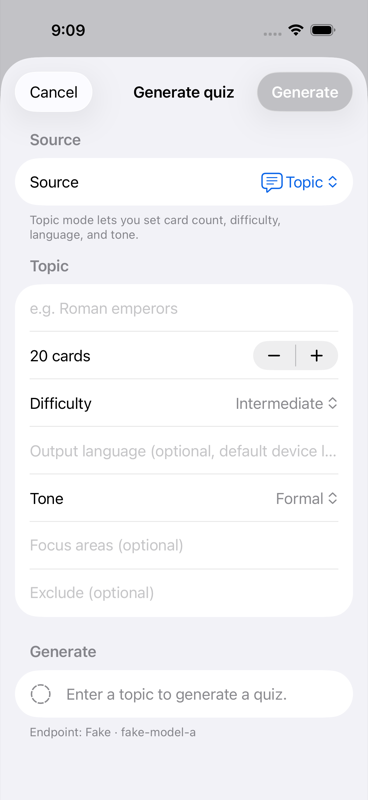
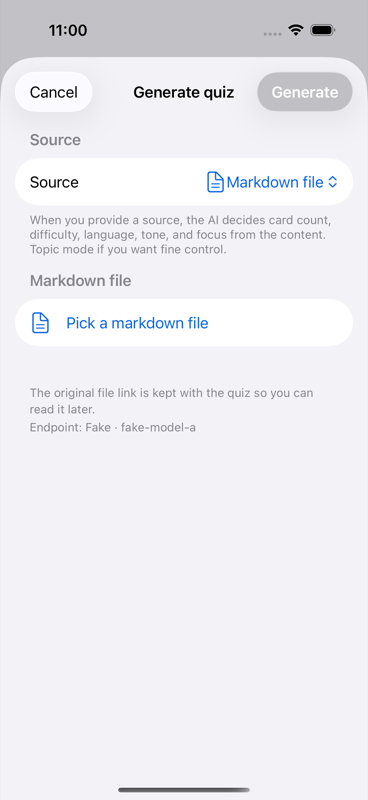
UI tweaks: onboarding, iPad search beside sort, simpler generate form
Owner feedback on the CR-011 round (CR-012):
- Onboarding: checkmark on the hero card; page 2 shows only the four
  sources; page 3 uses the sparkles badge from page 2; one-line keys note.
- iPad library: search moves from the toolbar into the header row beside
  sort; the add button stays top right. iPhone keeps the bottom search bar.
- Generate sheet: drop the bottom section header and readiness line; keep
  the original-kept note and endpoint. "Pick a markdown file".
- UI tests find the inline iPad search field.

diff --git a/AIQuiz/App/OnboardingView.swift b/AIQuiz/App/OnboardingView.swift
@@ -142,7 +142,7 @@ private struct GeneratePage: View {
                             .background(.background.secondary, in: RoundedRectangle(cornerRadius: Theme.tileRadius))
                         } else {
                             HStack(spacing: 10) {
-                                AccentIcon(systemName: source.icon, size: 32)
+                                AccentIcon(systemName: source.icon, size: 40)
                                 Text(source.label)
                                     .font(.subheadline.weight(.semibold))
                                     .lineLimit(2)
@@ -150,18 +150,11 @@ private struct GeneratePage: View {
                                 Spacer(minLength: 0)
                             }
                             .padding(.horizontal, 10)
-                            .frame(maxWidth: .infinity, minHeight: 52)
+                            .frame(maxWidth: .infinity, minHeight: 72)
                             .background(.background.secondary, in: RoundedRectangle(cornerRadius: Theme.tileRadius))
                         }
                     }
                 }
-                Label("AI writes the cards", systemImage: "arrow.down")
-                    .font(.footnote.weight(.semibold))
-                    .foregroundStyle(.secondary)
-                AdaptiveTiles(sizeClass: sizeClass, items: [
-                    FeatureTileModel(icon: "rectangle.stack.fill", title: "A deck of flashcards", text: "Ready for all three study modes."),
-                    FeatureTileModel(icon: "book.fill", title: "The original, kept", text: "Read it again from the quiz any time.")
-                ])
             }
         }
     }
@@ -173,7 +166,7 @@ private struct ProvidersPage: View {
     var body: some View {
         OnboardingPage(index: 2, title: "Bring your own AI",
                        subtitle: "Pick who writes and grades your quizzes. Requests go straight from this device to them.") {
-            AccentIcon(systemName: "cpu.fill", size: 120)
+            SparklesBadge(size: 120)
         } content: {
             VStack(spacing: 14) {
                 LazyVGrid(columns: Array(repeating: GridItem(.flexible(), spacing: 12), count: sizeClass == .regular ? 4 : 2), spacing: 12) {
@@ -181,14 +174,9 @@ private struct ProvidersPage: View {
                         ProviderMark(provider: provider, large: sizeClass == .regular)
                     }
                 }
-                HStack(alignment: .top, spacing: 12) {
+                HStack(spacing: 12) {
                     AccentIcon(systemName: "lock.shield.fill", size: sizeClass == .regular ? 48 : 36)
-                    VStack(alignment: .leading, spacing: 2) {
-                        Text("Your keys stay on this device").font(sizeClass == .regular ? .title3.weight(.semibold) : .headline)
-                        Text("API keys live in the Keychain. Add an endpoint from Settings whenever you're ready.")
-                            .font(sizeClass == .regular ? .body : .subheadline)
-                            .foregroundStyle(.secondary)
-                    }
+                    Text("Your keys stay on this device").font(sizeClass == .regular ? .title3.weight(.semibold) : .headline)
                     Spacer(minLength: 0)
                 }
                 .padding(sizeClass == .regular ? 18 : 12)
@@ -258,7 +246,7 @@ private struct StackedCardsHero: View {
                 .frame(width: 104, height: 136)
                 .overlay {
                     VStack(spacing: 10) {
-                        Image(systemName: "questionmark")
+                        Image(systemName: "checkmark")
                             .font(.system(size: 44, weight: .bold))
                         Capsule().frame(width: 56, height: 6).opacity(0.6)
                         Capsule().frame(width: 40, height: 6).opacity(0.4)
@@ -277,18 +265,28 @@ private struct StackedCardsHero: View {
     }
 }
 
+/// The AI "intelligence" badge: sparkles on an accent circle, shared by pages 2 and 3.
+private struct SparklesBadge: View {
+    let size: CGFloat
+
+    var body: some View {
+        Image(systemName: "sparkles")
+            .font(.system(size: size * 0.42, weight: .semibold))
+            .foregroundStyle(.white)
+            .frame(width: size, height: size)
+            .background(Theme.accent.gradient, in: Circle())
+            .shadow(color: Theme.accent.opacity(0.35), radius: 12, y: 6)
+            .accessibilityHidden(true)
+    }
+}
+
 /// Source → AI → cards.
 private struct GenerateHero: View {
     var body: some View {
         HStack(spacing: 10) {
             AccentIcon(systemName: "doc.text.fill", size: 64)
             Image(systemName: "chevron.right").font(.title3.weight(.bold)).foregroundStyle(.tertiary)
-            Image(systemName: "sparkles")
-                .font(.system(size: 40, weight: .semibold))
-                .foregroundStyle(.white)
-                .frame(width: 96, height: 96)
-                .background(Theme.accent.gradient, in: Circle())
-                .shadow(color: Theme.accent.opacity(0.35), radius: 12, y: 6)
+            SparklesBadge(size: 96)
             Image(systemName: "chevron.right").font(.title3.weight(.bold)).foregroundStyle(.tertiary)
             AccentIcon(systemName: "rectangle.stack.fill", size: 64)
         }

diff --git a/AIQuiz/Library/LibraryView.swift b/AIQuiz/Library/LibraryView.swift
@@ -7,6 +7,7 @@ import SwiftData
 struct LibraryView: View {
     @Environment(\.modelContext) private var context
     @Environment(AppSettings.self) private var settings
+    @Environment(\.horizontalSizeClass) private var sizeClass
     /// Active quizzes, for the empty state and the tag chips. Reads stored attributes only.
     @Query(filter: #Predicate<QuizRecord> { !$0.isArchived }) private var activeQuizzes: [QuizRecord]
     @Query(filter: #Predicate<QuizRecord> { $0.isArchived }) private var archivedQuizzes: [QuizRecord]
@@ -31,17 +32,24 @@ struct LibraryView: View {
                     description: Text("Import a JSON quiz from Files or generate one with AI.")
                 )
             } else {
-                LibraryList(
+                let list = LibraryList(
                     sort: settings.librarySort,
                     sortSelection: Bindable(settings).librarySort,
                     search: searchText,
+                    // iPad: search sits in the header row next to sort (CR-012).
+                    inlineSearch: sizeClass == .regular ? $searchText : nil,
                     tag: selectedTag,
                     tags: activeQuizzes.count > Self.tagChipThreshold ? allTags : [],
                     selectedTag: $selectedTag,
                     actions: actions,
                     sourceStatus: sourceStatus
                 )
-                .searchable(text: $searchText, prompt: "Search names and #tags")
+                if sizeClass == .regular {
+                    list
+                } else {
+                    // iPhone: the system search bar at the bottom.
+                    list.searchable(text: $searchText, prompt: "Search names and #tags")
+                }
             }
         }
         .navigationTitle("AIQuiz")
@@ -132,6 +140,7 @@ private struct LibraryList: View {
     @Query private var quizzes: [QuizRecord]
     @Query private var archived: [QuizRecord]
     @Binding var sortSelection: LibrarySort
+    let inlineSearch: Binding<String>?
     let tags: [String]
     @Binding var selectedTag: String?
     let actions: QuizActions
@@ -139,7 +148,7 @@ private struct LibraryList: View {
     @State private var showArchived = false
     @State private var launchMilliseconds: Int?
 
-    init(sort: LibrarySort, sortSelection: Binding<LibrarySort>, search: String, tag: String?, tags: [String], selectedTag: Binding<String?>, actions: QuizActions, sourceStatus: SourceStatus) {
+    init(sort: LibrarySort, sortSelection: Binding<LibrarySort>, search: String, inlineSearch: Binding<String>?, tag: String?, tags: [String], selectedTag: Binding<String?>, actions: QuizActions, sourceStatus: SourceStatus) {
         let term = search.trimmingCharacters(in: .whitespaces).lowercased()
         let needle = tag.map(TagsSearch.needle(forTag:)) ?? ""
         _quizzes = Query(
@@ -158,6 +167,7 @@ private struct LibraryList: View {
         )
         self.tags = tags
         _sortSelection = sortSelection
+        self.inlineSearch = inlineSearch
         _selectedTag = selectedTag
         self.actions = actions
         self.sourceStatus = sourceStatus
@@ -247,7 +257,11 @@ private struct LibraryList: View {
     /// Count and sort, at the top of the list rather than in the toolbar, so the add button
     /// stands alone (CR-011).
     private var listHeader: some View {
-        HStack {
+        HStack(spacing: 16) {
+            if let inlineSearch {
+                InlineSearchField(text: inlineSearch)
+                    .frame(maxWidth: 420)
+            }
             Text(quizzes.count == 1 ? "1 quiz" : "\(quizzes.count) quizzes")
                 .foregroundStyle(.secondary)
             Spacer()
@@ -334,5 +348,42 @@ private struct QuizRow: View {
 
     private func percentText(_ v: Double) -> String {
         "\(Int((v * 100).rounded()))%"
+    }
+}
+
+/// The iPad library's search field, in the row above the list (CR-012).
+private struct InlineSearchField: View {
+    @Binding var text: String
+    @FocusState private var focused: Bool
+
+    var body: some View {
+        HStack(spacing: 6) {
+            Image(systemName: "magnifyingglass")
+                .foregroundStyle(.secondary)
+            TextField("Search names and #tags", text: $text)
+                .textInputAutocapitalization(.never)
+                .autocorrectionDisabled()
+                .submitLabel(.search)
+                .focused($focused)
+                .accessibilityIdentifier("library.search")
+            if !text.isEmpty {
+                Button {
+                    text = ""
+                } label: {
+                    Image(systemName: "xmark.circle.fill")
+                        .foregroundStyle(.secondary)
+                }
+                .buttonStyle(.plain)
+                .accessibilityLabel("Clear search")
+                .accessibilityIdentifier("library.search.clear")
+            }
+        }
+        .font(.body)
+        .padding(.horizontal, 12)
+        .padding(.vertical, 8)
+        .background(.background, in: Capsule())
+        .overlay(Capsule().stroke(.separator, lineWidth: 0.5))
+        .contentShape(Capsule())
+        .onTapGesture { focused = true }
     }
 }

diff --git a/AIQuiz/Library/GenerateQuizView.swift b/AIQuiz/Library/GenerateQuizView.swift
@@ -201,7 +201,7 @@ struct GenerateQuizView: View {
             Button {
                 pickingMarkdown = true
             } label: {
-                Label(pickedMarkdownURL?.lastPathComponent ?? "Pick a .md file from Files",
+                Label(pickedMarkdownURL?.lastPathComponent ?? "Pick a markdown file",
                       systemImage: "doc.text")
             }
             if let content = markdownContent {
@@ -242,12 +242,6 @@ struct GenerateQuizView: View {
                     ProgressView()
                     Text("Generating…")
                 }
-            } else if generatedQuizId == nil && errorMessage == nil {
-                Label(canGenerate ? "Ready. Tap Generate at the top." : readinessHint,
-                      systemImage: canGenerate ? "checkmark.circle.fill" : "circle.dashed")
-                    .foregroundStyle(canGenerate ? AnyShapeStyle(Theme.accent) : AnyShapeStyle(.secondary))
-                    .accessibilityElement(children: .combine)
-                    .accessibilityIdentifier("generate.readiness")
             }
 
             if generatedQuizId != nil {
@@ -274,8 +268,6 @@ struct GenerateQuizView: View {
                     .accessibilityIdentifier("generate.error")
                     .id(Self.resultAnchor)
             }
-        } header: {
-            Text("Generate")
         } footer: {
             VStack(alignment: .leading, spacing: 4) {
                 if source != .topic {
@@ -288,16 +280,6 @@ struct GenerateQuizView: View {
     }
 
     private static let resultAnchor = "generate.result"
-
-    /// What is still missing before Generate turns on.
-    private var readinessHint: String {
-        switch source {
-        case .topic: return "Enter a topic to generate a quiz."
-        case .markdown: return "Pick a Markdown file to generate a quiz."
-        case .paste: return "Paste some text to generate a quiz."
-        case .url: return "Enter a web address starting with https://."
-        }
-    }
 
     private var canGenerate: Bool {
         switch source {

diff --git a/Tests/AIQuizUITests/AIQuizUITests.swift b/Tests/AIQuizUITests/AIQuizUITests.swift
@@ -378,6 +378,12 @@ final class AIQuizUITests: XCTestCase {
         row.press(forDuration: 1.2)
     }
 
+    /// The library search: inline next to sort on iPad, the system search bar on iPhone.
+    private func searchField(_ app: XCUIApplication) -> XCUIElement {
+        let inline = app.textFields["library.search"]
+        return inline.waitForExistence(timeout: 2) ? inline : app.searchFields.firstMatch
+    }
+
     private func firstRowLabel(_ app: XCUIApplication) -> String {
         let rows = app.buttons.matching(NSPredicate(format: "identifier BEGINSWITH 'library.row.'"))
         XCTAssertTrue(rows.firstMatch.waitForExistence(timeout: timeout))
@@ -476,7 +482,7 @@ final class AIQuizUITests: XCTestCase {
         app.buttons["quizEdit.save"].tap()
         XCTAssertTrue(app.staticTexts["#fixture #zebra"].waitForExistence(timeout: timeout), "the row shows the tags")
 
-        let search = app.searchFields.firstMatch
+        let search = searchField(app)
         XCTAssertTrue(search.waitForExistence(timeout: timeout))
         search.tap()
         search.typeText("#zebra")
@@ -557,7 +563,7 @@ final class AIQuizUITests: XCTestCase {
         XCTAssertTrue(first.waitForExistence(timeout: 5))
         print("PERF sort by name visible after \(Int(Date().timeIntervalSince(start) * 1000)) ms (includes XCUITest polling)")
 
-        let search = app.searchFields.firstMatch
+        let search = searchField(app)
         XCTAssertTrue(search.waitForExistence(timeout: timeout))
         search.tap()
         search.typeText("quiz 19")

diff --git a/SPEC.md b/SPEC.md
@@ -81,7 +81,7 @@ Scheduling (FSRS, F-40): `stability: Double` (0 = new), `difficulty: Double`, `d
 
 ## 4. Library
 
-- **F-1** Home screen lists every non-archived quiz with name, card count, **best**, **average**, tags, and a **due** badge when `dueCount > 0`, all read from the stored counters (D-11). Sort menu: *Recently studied* (default), *Name*, *Most due*, *Newest*; it sits in a header row above the list with the quiz count, not in the toolbar, so the add button stands alone (CR-011). The due badge and *Most due* ship with scheduling in Phase 7 (CR-009); until then every card counts as due, so both would be noise. Search field filters on `tagsSearch`. An *Archived* section at the bottom (collapsed) lists archived quizzes; archiving hides a quiz from Due today and from the main list without deleting history. Tags appear as filter chips above the list when the library has more than 10 quizzes.
+- **F-1** Home screen lists every non-archived quiz with name, card count, **best**, **average**, tags, and a **due** badge when `dueCount > 0`, all read from the stored counters (D-11). Sort menu: *Recently studied* (default), *Name*, *Most due*, *Newest*; it sits in a header row above the list with the quiz count, not in the toolbar, so the add button stands alone (CR-011). On iPad the search field sits in that row too; on iPhone it is the system search bar at the bottom (CR-012). The due badge and *Most due* ship with scheduling in Phase 7 (CR-009); until then every card counts as due, so both would be noise. Search field filters on `tagsSearch`. An *Archived* section at the bottom (collapsed) lists archived quizzes; archiving hides a quiz from Due today and from the main list without deleting history. Tags appear as filter chips above the list when the library has more than 10 quizzes.
 - **F-2** A **Due today** row at the top (hidden when zero) starts a cross-quiz review session (F-41) of all due cards in non-archived quizzes. The count comes from one `fetchCount` over `CardRecord` with a `dueAt <= now OR dueAt == nil` predicate, not from iterating quizzes.
 - **F-3** Add menu: *Generate with AI*, *Import JSON*, *From document* (PDF / markdown / text file), *From URL*, *From photo* (scan), *Paste*. All but the first two land on the Generate screen (§6) with the source pre-filled.
 - **F-4** Swipe to delete a quiz (confirmation alert) or archive it. Context menu: *Rename*, *Edit tags*, *Archive* / *Unarchive*, *Export JSON*, *Regenerate from source* (when a source bookmark or URL exists; Phase 5), *Delete*. Rename and Edit tags open one sheet (name, tags, description). Multi-select (Edit button) allows bulk tag, archive, export and delete (deferred, CR-009).
@@ -269,7 +269,7 @@ FSRS (Free Spaced Repetition Scheduler) with the published default parameters, i
 
 Accessibility identifier convention `screen.element`. Every interactive control and every text a test asserts on carries one. Current list (keep in sync when adding screens):
 
-- **Library:** `library.addButton`, `library.generate`, `library.import`, `library.settings`, `library.row.<quizId>`, `library.sort`, `library.sort.<recent|name|newest>`, `library.tag.<tag>`, `library.archived`, `library.noMatches`, `library.swipeDelete`, `library.sourceMissing`, `library.launchMetric` (UI-test mode only), context menu `library.relink|rename|editTags|archive|export|delete`, `quiz.confirmDelete`, `library.dueToday` (Phase 7).
+- **Library:** `library.addButton`, `library.generate`, `library.import`, `library.settings`, `library.row.<quizId>`, `library.sort`, `library.sort.<recent|name|newest>`, `library.tag.<tag>`, `library.archived`, `library.noMatches`, `library.swipeDelete`, `library.search` and `library.search.clear` (iPad only, in the header row), `library.sourceMissing`, `library.launchMetric` (UI-test mode only), context menu `library.relink|rename|editTags|archive|export|delete`, `quiz.confirmDelete`, `library.dueToday` (Phase 7).
 - **Quiz details editor:** `quizEdit.name`, `quizEdit.tags`, `quizEdit.description`, `quizEdit.save`, `quizEdit.cancel`.
 - **Quiz detail:** `detail.mode.studyVoice`, `detail.mode.studyRead`, `detail.mode.quizVoice`, `detail.mode.source` (Read Source Materials, CR-008), `detail.mode.quizChoice` (Phase 6), `detail.description`, `detail.tags`, `detail.stat.cards`, `detail.stat.sessions`, `detail.card.<index>`, `detail.more`, `detail.rename|editTags|archive|export`.
 - **Card sheet:** `card.prompt`, `card.shortAnswer`, `card.longAnswer`, `card.hint`, `card.explanation`, `card.mnemonic`, `card.edit`, `card.delete`, `card.confirmDelete`, `card.done`; editor `cardEdit.prompt|shortAnswer|longAnswer|hint|kind|options|explanation|mnemonic|problem|save`.
@@ -280,7 +280,7 @@ Accessibility identifier convention `screen.element`. Every interactive control 
 - **Study voice:** `studyVoice.state`, `studyVoice.back`, `studyVoice.repeat`, `studyVoice.play`, `studyVoice.pause`, `studyVoice.skip`.
 - **Quiz voice:** `quiz.transcript`, `quiz.tapToAnswer`, `quiz.stopReveal`, `quiz.showAnswer`, `quiz.grade.wrong`, `quiz.grade.partial`, `quiz.grade.correct`, `quiz.askAI`, `quiz.aiVerdict`, `quiz.aiError`, `quiz.whyWrong` (Phase 4).
 - **Summary:** `summary.score`, `summary.count.correct|partial|wrong|skipped`, `summary.practiceMissed`, `summary.done`.
-- **Generate:** `generate.source`, `generate.topic`, `generate.readiness`, `generate.run` (top right, disabled until the source is ready), `generate.error`, `generate.cancel`, `generate.saveJSON`, `generate.openLibrary`, `generate.progress` (Phase 5).
+- **Generate:** `generate.source`, `generate.topic`, `generate.run` (top right, disabled until the source is ready), `generate.error`, `generate.cancel`, `generate.saveJSON`, `generate.openLibrary`, `generate.progress` (Phase 5).
 - **Settings:** `settings.appearance`, `settings.readingSize`, `settings.endpoints`, `settings.sttLanguage`, `settings.debugLogging`, `settings.shareLog`, `settings.deleteLog`, `settings.clearKeys`, `settings.clearHistory`, `settings.clearLibrary`, `settings.confirmClear`, `settings.showIntro`.
 - **AI endpoints:** `endpoints.setupIssue`, `endpoints.done`, `endpoints.row.<name>`, `endpoints.add`, `endpoints.preset.<preset>`, `endpoints.route.<purpose>`, `endpoints.fallback.<purpose>`, `endpoints.usage.<name>`, `endpoints.resetUsage`, `endpoints.clearKeys`; editor: `endpoints.name`, `endpoints.baseURL`, `endpoints.key`, `endpoints.keyVisibility`, `endpoints.keyWarning`, `endpoints.savedKey`, `endpoints.model`, `endpoints.modelPicker`, `endpoints.test`, `endpoints.testResult`, `endpoints.contextWindow`, `endpoints.save`, `endpoints.cancel`.
 - **Chat (Phase 8):** `chat.input`, `chat.send`.
@@ -288,7 +288,7 @@ Accessibility identifier convention `screen.element`. Every interactive control 
 ---
 
 ## 13. First run and onboarding (F-60)
-Three illustrated screens (CR-011): *Three ways to study* (a tile per mode), *Make quizzes from anything* (the four source types, then the deck and the kept original), *Bring your own AI* (Anthropic, OpenAI, Apple on-device and your own server, plus a note that keys stay in the Keychain). Tiles sit side by side on iPad and stack on iPhone. The last screen ends with *Let's get started*; endpoints are added later from Settings. Skippable. Shown once (flag in UserDefaults). Samples are seeded regardless. Provider tiles show the official Anthropic symbol and OpenAI Blossom (asset catalog `logo-anthropic`, `logo-openai`, light and dark variants, unmodified; provenance in ADR-016), Apple's `apple.logo` symbol, and a server symbol.
+Three illustrated screens (CR-011): *Three ways to study* (a tile per mode), *Make quizzes from anything* (the four source types), *Bring your own AI* (Anthropic, OpenAI, Apple on-device and your own server, plus a one-line note that keys stay on the device). Page 1's card shows a checkmark; pages 2 and 3 share the sparkles "intelligence" badge (CR-012). Tiles sit side by side on iPad and stack on iPhone. The last screen ends with *Let's get started*; endpoints are added later from Settings. Skippable. Shown once (flag in UserDefaults). Samples are seeded regardless. Provider tiles show the official Anthropic symbol and OpenAI Blossom (asset catalog `logo-anthropic`, `logo-openai`, light and dark variants, unmodified; provenance in ADR-016), Apple's `apple.logo` symbol, and a server symbol.
 
 ---
 
@@ -317,3 +317,4 @@ Every change to behaviour after the v2 draft is recorded here before or with the
 | CR-009 | 2026-10-22 | Claude (Phase 2 implementation) | §3: the quiz's origin is stored as `originRaw` (not `sourceKind`, which CR-007 already uses); `summaryMarkdown` is stored as `summaryMarkdownData` because external storage applies to binary data; `tagsSearch` is ` name #tag1 #tag2 ` so a tag filter can match a whole tag. The migration plan recognises two pre-v2 shapes (v0.1 and the CR-007 store), not one, so a phone that never ran the CR-007 build also migrates. F-1: the due badge and *Most due* sort move to Phase 7, when FSRS makes `dueCount` meaningful. F-4: multi-select bulk actions are deferred to a later phase; *Regenerate from source* and *Re-link file* (F-5) stay in Phase 5. `studyNotes` is kept in v2. | accepted |
 | CR-010 | 2026-10-22 | Claude (Phase 3 implementation) | §5: the players (`StudyVoicePlayer`, `StudyReadPlayer`, `QuizVoicePlayer`) and the speech protocols (F-51) live in AIQuizCore, so they are tested with `swift test`; UI-test mode uses scripted speech so every mode runs end to end on the simulator (ADR-015). The hint now resets on every card in every mode (in Study read it used to stay open on the next card), and the Hint button sits with the controls in voice modes and on the card in Study read, as before. *Practice missed cards* (F-18) is offered wherever a session ends on a summary with grades; the two study modes have no grades or summary, so they have nothing to practise. F-6: samples are seeded on first launch only (v1 re-added deleted samples on every launch). S-14's log lives in the app's caches, is capped at 1 MB and can be shared or deleted from Settings. F-60 adds *Show the introduction again* in Settings; UI-test mode skips onboarding unless `-UITestOnboarding` is passed. F-1 search shipped in Phase 2. | accepted |
 | CR-011 | 2026-10-22 | Owner (UI feedback) | Visual theme (new N-9): one blue accent for primary actions and icons; the add button is an accent circle; the primary Save in each editor and Play / Pause in Study voice carry the accent; the archive swipe is neutral grey. Onboarding (§13) is redesigned with illustrations and tiles, adapts to iPhone, and ends with *Let's get started* instead of *Add an endpoint now* / *Later*. The library's sort moves from the toolbar to a header row above the list (F-1). The Generate sheet puts *Cancel* top left and *Generate* top right, disabled until the source is ready and accent when it is, with a line saying what is missing. | accepted |
+| CR-012 | 2026-10-22 | Owner (UI tweaks) | Onboarding: the hero card shows a checkmark; page 2 shows only the four source types; page 3's hero is the sparkles badge from page 2; the keys note is one line. Library on iPad: search moves from the toolbar to the header row beside sort, and the add button stays top right. Generate sheet: the bottom section has no header and no readiness line; its footer still says the original is kept and names the endpoint. The Markdown picker reads *Pick a markdown file*. | accepted |

diff --git a/CHANGELOG.md b/CHANGELOG.md
@@ -63,8 +63,8 @@ All notable changes to AIQuiz. Format follows [Keep a Changelog](https://keepach
   - **Fixed:** deleted sample quizzes came back on every launch. Samples are now added on first launch only.
   - **New look (CR-011):** one blue accent color marks the main action on every screen: the round + button, Generate, Save in editors, Play / Pause, Next and Tap to answer. Red, orange and green are kept for grades and destructive actions.
   - **Welcome screens redesigned:** illustrations and tiles for the three study modes, the four kinds of source, and the AI providers, with the official Anthropic and OpenAI marks in light and dark versions. They fit on iPhone, lay out side by side on iPad, and end with *Let's get started*.
-  - **Library:** sort sits above the list next to the quiz count instead of in the toolbar, so the + button stands on its own.
-  - **Generate quiz:** *Cancel* is top left and *Generate* top right. Generate stays grey until there's something to generate from, then turns blue, and a line says what's missing.
+  - **Library:** sort sits above the list next to the quiz count instead of in the toolbar, so the + button stands on its own. On iPad the search field moved into that row too.
+  - **Generate quiz:** *Cancel* is top left and *Generate* top right. Generate stays grey until there's something to generate from, then turns blue. The bottom of the form only notes that the original is kept and which endpoint is used. The Markdown picker reads *Pick a markdown file*.
   - The three study and quiz screens share one card face, progress header, Hint button, End confirmation and swipe gesture, and each runs on a player that is unit-tested with scripted speech (ADR-015). The three screens went from 960 to 429 lines.
 
 ## [0.1.0] — 2026-10-21
